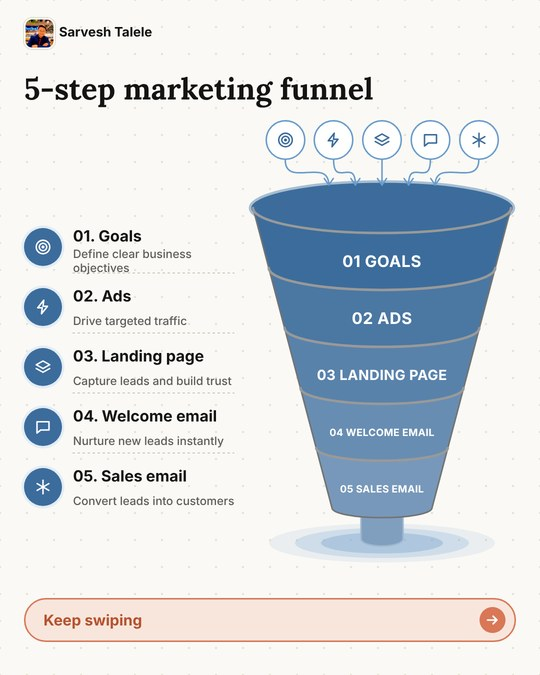
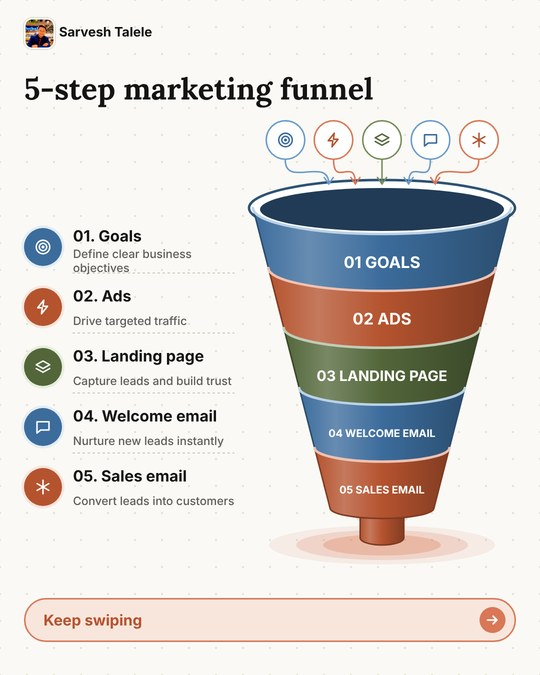
2.17.0: reel narration pacing and caps handling, infographic-first carousel flow (PDF+images), lit 3D ring funnel

Changed region(s): [[0.4444, 0.1556, 0.9481, 0.84], [0.0296, 0.4044, 0.1185, 0.5911], [0.0296, 0.6844, 0.1185, 0.7778]]

diff --git a/skills/explainer-studio/studio/index.html b/skills/explainer-studio/studio/index.html
@@ -73,7 +73,7 @@ dialog{border:0;border-radius:14px;padding:0;max-width:880px;width:calc(100% - 2
 </style></head><body>
 <nav class="rail" aria-label="Main"><div class="brand"><img src="/avatar" alt=""><div><b>Explainer Studio</b><small id="who"></small></div></div>
  <h6>Workspace</h6><a href="#/home" data-r="home"><svg viewBox="0 0 24 24"><path d="M3 11l9-7 9 7v9a1 1 0 0 1-1 1h-5v-6H9v6H4a1 1 0 0 1-1-1z"/></svg>Home</a><a href="#/library" data-r="library"><svg viewBox="0 0 24 24"><rect x="3" y="4" width="7" height="7" rx="1"/><rect x="14" y="4" width="7" height="7" rx="1"/><rect x="3" y="14" width="7" height="7" rx="1"/><rect x="14" y="14" width="7" height="7" rx="1"/></svg>Library</a>
- <h6>Create</h6><a href="#/create/carousel" data-r="create/carousel"><svg viewBox="0 0 24 24"><rect x="6" y="4" width="12" height="16" rx="2"/><path d="M3 8v8M21 8v8"/></svg>Carousel</a><a href="#/create/image" data-r="create/image"><svg viewBox="0 0 24 24"><rect x="3" y="4" width="18" height="16" rx="2"/><circle cx="9" cy="10" r="2"/><path d="M21 16l-5-5-8 8"/></svg>Infographic or cover</a><a href="#/create/gif" data-r="create/gif"><svg viewBox="0 0 24 24"><rect x="3" y="5" width="18" height="14" rx="2"/><path d="M8 10v4M12 10v4M16 10h-2v4"/></svg>GIF</a><a href="#/create/post" data-r="create/post"><svg viewBox="0 0 24 24"><path d="M4 5h16v11H9l-5 4z"/></svg>Post</a><a href="#/create/reel" data-r="create/reel"><svg viewBox="0 0 24 24"><rect x="7" y="2" width="10" height="20" rx="2"/><path d="M11 10l3 2-3 2z"/></svg>Reel</a>
+ <h6>Create</h6><a href="#/create/carousel" data-r="create/carousel"><svg viewBox="0 0 24 24"><rect x="6" y="4" width="12" height="16" rx="2"/><path d="M3 8v8M21 8v8"/></svg>Carousel</a><a href="#/create/image" data-r="create/image"><svg viewBox="0 0 24 24"><rect x="3" y="4" width="18" height="16" rx="2"/><circle cx="9" cy="10" r="2"/><path d="M21 16l-5-5-8 8"/></svg>Infographic</a><a href="#/create/gif" data-r="create/gif"><svg viewBox="0 0 24 24"><rect x="3" y="5" width="18" height="14" rx="2"/><path d="M8 10v4M12 10v4M16 10h-2v4"/></svg>GIF</a><a href="#/create/post" data-r="create/post"><svg viewBox="0 0 24 24"><path d="M4 5h16v11H9l-5 4z"/></svg>Post</a><a href="#/create/reel" data-r="create/reel"><svg viewBox="0 0 24 24"><rect x="7" y="2" width="10" height="20" rx="2"/><path d="M11 10l3 2-3 2z"/></svg>Reel</a>
  <div class="sp"></div><div class="foot">Runs on this computer only. Nothing is uploaded.</div></nav>
 <main id="view" tabindex="-1"></main>
 <dialog id="dlg"><div class="dlg" id="dlgBody"></div></dialog>
@@ -82,8 +82,8 @@ const TOKEN='__TOKEN__';const $=(s,p=document)=>p.querySelector(s);const $$=(s,p
 const el=(t,a={},...k)=>{const e=document.createElement(t);for(const[x,v]of Object.entries(a)){if(x==='class')e.className=v;else if(x==='text')e.textContent=v;else if(x.startsWith('on'))e.addEventListener(x.slice(2),v);else if(v!==false&&v!==null&&v!==undefined)e.setAttribute(x,v===true?'':v)}k.flat().forEach(c=>e.append(c&&c.nodeType?c:document.createTextNode(c??'')));return e};
 const api=async(p,b)=>{const r=await fetch(p+(p.includes('?')?'&':'?')+'t='+TOKEN,{method:b?'POST':'GET',headers:{'X-Token':TOKEN,'Content-Type':'application/json'},body:b?JSON.stringify(b):undefined});return r.json()};
 const u=p=>p+(p.includes('?')?'&':'?')+'t='+TOKEN;
-const TEMPLATES=['cover-bold','cover-stage','cover-editorial','cover-terminal'];
-const KIND={carousel:['Carousel','A cover, your infographics and a closing slide, as PDF, separate images or both.','#/create/carousel'],image:['Infographic or cover','One finished image, ready to post.','#/create/image'],gif:['GIF','A short looping explainer for LinkedIn.','#/create/gif'],post:['Post','Post text with its image and first comment.','#/create/post'],reel:['Reel','A cinematic vertical video with voice and captions.','#/create/reel']};
+const TEMPLATES=['info-ring','info-tower','info-loop','info-stat'];
+const KIND={carousel:['Carousel','A cover, your infographics and a closing slide, as PDF, separate images or both.','#/create/carousel'],image:['Infographic','One finished infographic image, ready to post.','#/create/image'],gif:['GIF','A short looping explainer for LinkedIn.','#/create/gif'],post:['Post','Post text with its image and first comment.','#/create/post'],reel:['Reel','A cinematic vertical video with voice and captions.','#/create/reel']};
 const ICON={carousel:'<rect x="6" y="4" width="12" height="16" rx="2"/><path d="M3 8v8M21 8v8"/>',image:'<rect x="3" y="4" width="18" height="16" rx="2"/><circle cx="9" cy="10" r="2"/><path d="M21 16l-5-5-8 8"/>',gif:'<rect x="3" y="5" width="18" height="14" rx="2"/><path d="M8 10v4M12 10v4M16 10h-2v4"/>',post:'<path d="M4 5h16v11H9l-5 4z"/>',reel:'<rect x="7" y="2" width="10" height="20" rx="2"/><path d="M11 10l3 2-3 2z"/>'};
 const svg=k=>{const s=document.createElementNS('http://www.w3.org/2000/svg','svg');s.setAttribute('viewBox','0 0 24 24');s.innerHTML=ICON[k]||'';return s};
 const ago=t=>{const d=Date.now()/1e3-t;return d<90?'just now':d<5400?Math.round(d/60)+' min ago':d<129600?Math.round(d/3600)+' h ago':new Date(t*1e3).toLocaleDateString()};
@@ -95,8 +95,8 @@ function route(){const h=(location.hash||'#/home').slice(2)||'home';$$('.rail a'
  if(h==='home')home(m);else if(h==='library')library(m);else if(h==='create/carousel')studio(m,'carousel');else if(h==='create/image')studio(m,'single');else if(/^create\/(gif|post|reel)$/.test(h))brief(m,h.split('/')[1]);else home(m);document.title=({home:'Home',library:'Library'}[h]||'Create')+' · Explainer Studio'}
 function status(k){const r=READY&&READY[k];if(!READY)return el('span',{class:'chip',text:'Checking…'});return el('span',{class:'chip '+(r&&r.ready?'ok':'warn'),text:r&&r.ready?'Ready on this computer':'Setup needed'})}
 function home(m){
- const tpl=TEMPLATES.map(id=>el('img',{src:u('/samples/'+id+'.jpg'),alt:byId(id).name+' carousel cover'}));
- m.append(el('section',{class:'hero'},el('div',{},el('h1',{text:'Turn an idea into something people stop for.'}),el('p',{class:'lede',text:'Pick a template, fill in your words and get a finished carousel, infographic, GIF, post or Reel. Everything is made on this computer with your branding.'}),el('div',{class:'bar'},el('a',{class:'btn pri',href:'#/create/carousel',text:'Create a carousel'}),el('a',{class:'btn ghost',href:'#/library',text:'Open the library'}))),el('div',{class:'fan',role:'img','aria-label':'The four carousel templates'},tpl)));
+ const tpl=TEMPLATES.map(id=>el('img',{src:u('/samples/'+id+'.jpg'),alt:byId(id).name+' infographic'}));
+ m.append(el('section',{class:'hero'},el('div',{},el('h1',{text:'Turn an idea into something people stop for.'}),el('p',{class:'lede',text:'Choose the infographics, fill in your words and get a finished carousel (PDF and images), infographic, GIF, post or Reel. Everything is made on this computer with your branding.'}),el('div',{class:'bar'},el('a',{class:'btn pri',href:'#/create/carousel',text:'Create a carousel'}),el('a',{class:'btn ghost',href:'#/library',text:'Open the library'}))),el('div',{class:'fan',role:'img','aria-label':'Sample infographics'},tpl)));
  m.append(el('div',{class:'sechead'},el('h2',{text:'Create'})));
  const t=el('div',{class:'tiles'});['carousel','image','gif','post','reel'].forEach(k=>{const a=el('a',{class:'tile',href:KIND[k][2]},svg(k),el('b',{text:KIND[k][0]}),el('span',{text:KIND[k][1]}));if(['carousel','gif','reel'].includes(k)){const st=el('div',{class:'st'});st.append(status(k==='image'?'carousel':k));a.append(st)}t.append(a)});m.append(t);
  const rec=el('div');m.append(el('div',{class:'sechead'},el('h2',{text:'Recently made'}),el('a',{href:'#/library',text:'See all'})),rec);
@@ -128,34 +128,32 @@ function brief(m,k){const names={gif:'GIF',post:'Post',reel:'Reel'},blurb={gif:'
  m.append(el('div',{class:'two'},form,side));const L=el('div');m.append(el('div',{class:'sechead',style:'margin-top:30px'},el('h2',{text:'Made before'})),L);
  api('/api/library').then(r=>{const l=r.items.filter(i=>i.kind===k);if(!l.length){L.append(el('div',{class:'empty',text:'No '+names[k]+'s yet.'}));return}const g=el('div',{class:'grid'});l.forEach(i=>g.append(card(i)));L.append(g)})}
 // ---- studio pages (carousel + single image) ----
-function studio(m,mode){const S={mode,group:'cover',picked:[],vals:{},closing:{title:'What will you try first?',lines:[]},theme:'paper'};
- const isC=mode==='carousel';m.append(el('h1',{text:isC?'Create a carousel':'Create an infographic or cover'}),el('p',{class:'lede',text:isC?'Choose a cover template, add the infographics you want inside, write your content and choose how it is delivered.':'Choose one design and write its content. You get a finished PNG.'}));
+function studio(m,mode){const S={mode,group:'infographic',picked:[],vals:{},closing:{title:'What will you try first?',lines:[]},theme:'paper',fmt:'both'};
+ const isC=mode==='carousel';m.append(el('h1',{text:isC?'Create a carousel':'Create an infographic'}),el('p',{class:'lede',text:isC?'Choose the infographic for each slide, write your content and get the carousel as a PDF and as separate images, in the Claude light theme with your branding.':'Choose one infographic and write its content. You get a finished PNG.'}));
  const steps=el('div',{class:'steps'});m.append(steps);const wrap=el('div',{class:'work'}),main=el('div'),aside=el('aside',{class:'card proof'});wrap.append(main,aside);m.append(wrap);
  aside.append(el('div',{class:'empty',style:'border:0;padding:20px 6px',text:'Choose a design to preview it here.'}));
  const s1=el('section',{class:'sec'}),s2=el('section',{class:'sec'}),s3=el('section',{class:'sec'}),s4=el('section',{class:'sec'});main.append(s1,s2,s3,s4);
  const show=d=>{aside.innerHTML='';aside.append(el('img',{class:'big',src:u('/samples/'+d.id+'.jpg'),alt:'Sample of '+d.name}),el('h3',{text:d.name}),el('p',{text:d.blurb}),el('div',{class:'fit',text:'Best for: '+d.best_for}))};
  const wall=(list,pick)=>{const w=el('div',{class:'wall'});list.forEach(d=>w.append(el('button',{class:'poster',type:'button','aria-pressed':S.picked.includes(d.id),onclick:()=>pick(d),onmouseenter:()=>show(d),onfocus:()=>show(d)},el('span',{class:'sheet'},el('img',{src:u('/samples/'+d.id+'.jpg'),alt:'Sample of '+d.name}),el('span',{class:'tick',text:'Selected'})),el('strong',{text:d.name}),el('small',{text:d.tag}))));return w};
- const covers=D.designs.filter(d=>d.group==='cover'),infos=D.designs.filter(d=>d.group==='infographic'),tpls=covers.filter(d=>TEMPLATES.includes(d.id));
- const seed=id=>{if(!S.vals[id])S.vals[id]=clone(byId(id).sample)};
+ const infos=D.designs.filter(d=>d.group==='infographic'),COVER='cover-bold';
+ const seed=id=>{if(!S.vals[id])S.vals[id]=clone(byId(id).sample)};if(isC){S.picked=[COVER];seed(COVER)}
  function draw(){
   const hasCover=S.picked.some(i=>byId(i).group==='cover');
-  steps.innerHTML='';(isC?['Template','Infographics','Content','Deliver']:['Design','Content','Generate']).forEach((n,i)=>{const on=isC?(i===0&&!hasCover)||(i===1&&hasCover&&S.picked.length<2)||(i>=2&&S.picked.length>1):(i===0&&!S.picked.length)||(i>=1&&S.picked.length);steps.append(el('div',{class:on?'on':'',text:(i+1)+'. '+n}))});
+  steps.innerHTML='';(isC?['Infographics','Content','Create']:['Infographic','Content','Create']).forEach((n,i)=>{const ni=S.picked.filter(x=>byId(x).group==='infographic').length,on=(i===0&&!ni)||(i>=1&&ni>0);steps.append(el('div',{class:on?'on':'',text:(i+1)+'. '+n}))});
   s1.innerHTML='';s2.innerHTML='';
-  if(isC){s1.append(el('h2',{text:'1. Pick a cover template'}),el('p',{text:'Four templates, all in the Claude light theme by default. Each one sets the cover layout.'}),wall(tpls,d=>{S.picked=S.picked.filter(x=>byId(x).group!=='cover');S.picked.unshift(d.id);seed(d.id);show(d);draw()}));
-   s2.append(el('h2',{text:'2. Add infographics (up to 5)'}),el('p',{text:'Choose the infographic type for each slide first. The carousel is created only after you have picked at least one.'}),wall(infos,d=>{const i=S.picked.indexOf(d.id);if(i>=0)S.picked.splice(i,1);else if(S.picked.filter(x=>byId(x).group==='infographic').length<5)S.picked.push(d.id);seed(d.id);show(d);draw()}))}
-  else{s1.append(el('h2',{text:'1. Pick a design'}));const tabs=el('div',{class:'seg',style:'margin-bottom:14px'});[['cover','Covers'],['infographic','Infographics']].forEach(([g,n])=>tabs.append(el('button',{type:'button','aria-pressed':S.group===g,text:n,onclick:()=>{S.group=g;draw()}})));s1.append(tabs,wall(D.designs.filter(d=>d.group===S.group),d=>{S.picked=S.picked.includes(d.id)?[]:[d.id];seed(d.id);show(d);draw()}))}
-  s3.innerHTML='';s4.innerHTML='';if(!S.picked.length)return;
-  s3.append(el('h2',{text:(isC?'3':'2')+'. Write your content'}),el('p',{text:'Each field is filled with the sample so you can see what it does. Replace it with your own words. Counters show the limit.'}));
-  if(isC){const dk=el('div',{class:'deck'});S.picked.forEach(id=>{const d=byId(id);dk.append(el('div',{class:'deckrow'},el('img',{src:u('/samples/'+id+'.jpg'),alt:''}),el('span',{text:(d.group==='cover'?'Cover: ':'Slide: ')+d.name}),el('button',{type:'button','aria-label':'Remove '+d.name,onclick:()=>{S.picked=S.picked.filter(x=>x!==id);draw()},text:'Remove'})))});dk.append(el('div',{class:'deckrow'},el('span',{text:'Closing slide with your follow button (added automatically)'})));s3.append(dk)}
+  if(isC){s1.append(el('h2',{text:'1. Choose the infographic for each slide (up to 5)'}),el('p',{text:'Each one becomes a slide between your cover and the closing slide. Pick the types that suit your content, in the order you want them.'}),wall(infos,d=>{const i=S.picked.indexOf(d.id);if(i>=0)S.picked.splice(i,1);else if(S.picked.filter(x=>byId(x).group==='infographic').length<5)S.picked.push(d.id);seed(d.id);show(d);draw()}))}
+  else{s1.append(el('h2',{text:'1. Choose an infographic'}),wall(infos,d=>{S.picked=S.picked.includes(d.id)?[]:[d.id];seed(d.id);show(d);draw()}))}
+  s3.innerHTML='';s4.innerHTML='';if(!S.picked.some(x=>byId(x).group==='infographic'))return;
+  s3.append(el('h2',{text:'2. Write your content'}),el('p',{text:'Each field is filled with the sample so you can see what it does. Replace it with your own words. Counters show the limit.'}));
+  if(isC){const dk=el('div',{class:'deck'});S.picked.forEach(id=>{const d=byId(id);dk.append(el('div',{class:'deckrow'},el('img',{src:u('/samples/'+id+'.jpg'),alt:''}),el('span',{text:(d.group==='cover'?'Cover (made from your headline)':'Slide: '+d.name)}),d.group==='cover'?'':el('button',{type:'button','aria-label':'Remove '+d.name,onclick:()=>{S.picked=S.picked.filter(x=>x!==id);draw()},text:'Remove'})))});dk.append(el('div',{class:'deckrow'},el('span',{text:'Closing slide with your follow button (added automatically)'})));s3.append(dk)}
   S.picked.forEach(id=>{const d=byId(id),box=el('div',{class:'form'},el('h3',{text:d.name}),el('p',{class:'sub',text:d.tag}));d.fields.forEach(sp=>box.append(field(sp,S.vals[id],upd)));box.append(el('button',{type:'button',class:'btn ghost sm',onclick:()=>{S.vals[id]=clone(d.sample);draw()},text:'Reset to the sample'}));s3.append(box)});
   if(isC){const box=el('div',{class:'form'},el('h3',{text:'Closing slide'}),el('p',{class:'sub',text:'The last slide, with your follow button underneath.'}));box.append(field({key:'title',type:'text',label:'Question or call to action',min:6,max:60},S.closing,upd));
    const ls=el('div',{class:'listbox'});[0,1,2].forEach(i=>{const inp=el('input',{type:'text',maxlength:38,'aria-label':'Optional line '+(i+1),placeholder:'Optional line '+(i+1),value:S.closing.lines[i]||'',oninput:()=>{S.closing.lines[i]=inp.value}});ls.append(inp)});box.append(el('div',{class:'fld'},el('label',{},'Optional lines (what to do next)'),ls));s3.append(box)}
-  s4.append(el('h2',{text:(isC?'4. Deliver':'3. Generate')}));
-  if(isC)s4.append(el('fieldset',{},el('legend',{text:'How do you want the carousel delivered?'}),el('div',{class:'radios'},[['pdf','PDF'],['images','Separate images'],['both','Both']].map(([v,t])=>el('label',{},el('input',{type:'radio',name:'f',value:v,checked:S.fmt===v,onchange:()=>{S.fmt=v;upd()}}),t)))));
+  s4.append(el('h2',{text:'3. Create'}));if(isC)s4.append(el('p',{text:'You get the PDF and every slide as a separate image, plus the first comment text.'}));
   const th=el('select',{id:'theme','aria-label':'Colour theme',style:'max-width:260px',onchange:()=>S.theme=th.value});D.themes.forEach(([v,t])=>th.append(el('option',{value:v,text:t,selected:v===S.theme})));
   s4.append(el('div',{class:'fld'},el('label',{for:'theme'},'Colour theme'),th));
-  const go=el('button',{class:'btn pri',type:'button',id:'go',disabled:true,text:'Generate'}),st=el('div'),res=el('div',{class:'results'});s4.append(go,st,res);go.onclick=()=>run(go,st,res);upd()}
- function upd(){const go=$('#go');if(go)go.disabled=!(S.picked.length&&(!isC||(S.picked.some(i=>byId(i).group==='cover')&&S.picked.some(i=>byId(i).group==='infographic')&&S.fmt)))}
+  const go=el('button',{class:'btn pri',type:'button',id:'go',disabled:true,text:isC?'Create carousel (PDF and images)':'Create image'}),st=el('div'),res=el('div',{class:'results'});s4.append(go,st,res);go.onclick=()=>run(go,st,res);upd()}
+ function upd(){const go=$('#go');if(go)go.disabled=!(S.picked.length&&(!isC||S.picked.some(i=>byId(i).group==='infographic')))}
  async function run(go,st,res){res.innerHTML='';go.disabled=true;st.innerHTML='';st.append(el('div',{class:'msg busy',role:'status',text:'Building with the real engine. This takes up to a minute.'}));
   const items=S.picked.map(id=>({design:id,values:S.vals[id]}));const r=await api('/api/generate',{mode:S.mode,format:isC?S.fmt:'images',theme:S.theme,items,closing:isC?{title:S.closing.title,lines:S.closing.lines.filter(Boolean)}:null});
   st.innerHTML='';if(r.error){st.append(el('div',{class:'msg err',role:'alert',text:r.error}));upd();return}

diff --git a/skills/explainer-studio/engine/carousel.js b/skills/explainer-studio/engine/carousel.js
@@ -298,27 +298,33 @@ const TYPES = {
     const lw = Math.min(XW, Math.round((s.short || '').length * 14.4 + 120)), link = box(root, { x: X0, y: yy, w: lw, h: 46, r: 23, fill: C.sand, bd: C.line, bw: 2, shadow: false });
     E(link, 'abs', 'left:14px;top:10px', icon('globe', 24, C.clayD, 2)); tx(link, 'sh-l', s.short || '', { x: 52, y: 4, w: lw - 64, h: 36, size: 24, weight: 500, font: MONO });
   },
-  // 3D ring funnel (reference: "5-step marketing funnel"): icons arrow into a stack of blue rings that narrow to a glowing spout; numbered list on the left
+  // 3D ring funnel in the Claude palette: each ring is a lit cylinder (light edge, dark side), icons feed it from above, numbered list on the left
   ring(root, s) {
     const st = s.steps, n = st.length, y0 = heading(root, 'rg-h', s.title) + 18, svg = svgLayer(root, W, H);
-    const cx = 764, rx0 = 258, rx1 = 100, ry0 = 50, iR = 40, iy = y0 + iR + 4, rimY = iy + iR + 96, th = Math.min(n <= 3 ? 150 : n === 4 ? 136 : 124, Math.floor((BODY1 - 150 - rimY) / n));
-    const r = d => rx0 + (rx1 - rx0) * d / n, ryOf = rr => ry0 * rr / rx0, col = k => mix(C.blueD, .30 * k / Math.max(1, n - 1)), ell = (x, y, a, b) => `M${x - a} ${y} a${a} ${b} 0 1 0 ${2 * a} 0 a${a} ${b} 0 1 0 ${-2 * a} 0`;
-    const pad = k => String(k + 1).padStart(2, '0'), bot = rimY + n * th;
-    for (let g = 3; g >= 1; g--) path(svg, ell(cx, bot + 70, 70 + g * 52, 12 + g * 9), { stroke: 'none', fill: C.blue, w: 0 }).setAttribute('opacity', String(.11 * (4 - g)));
-    path(svg, `M${cx - r(n) * .42} ${bot} L${cx - r(n) * .42} ${bot + 62} A${r(n) * .42} 14 0 0 0 ${cx + r(n) * .42} ${bot + 62} L${cx + r(n) * .42} ${bot} Z`, { stroke: mix(C.blueD, .5), w: 3, fill: mix(C.blueD, .35) });
-    path(svg, ell(cx, rimY, rx0 + 6, ry0 + 3), { stroke: mix(C.blueD, .55), w: 5, fill: C.blueD }); path(svg, ell(cx, rimY + 2, rx0 - 20, ry0 - 12), { stroke: 'none', fill: mix(C.blueD, -0) }).setAttribute('opacity', '.55');
+    const cx = 764, rx0 = 258, rx1 = 104, ry0 = 52, iR = 40, iy = y0 + iR + 4, rimY = iy + iR + 96, th = Math.min(n <= 3 ? 150 : n === 4 ? 136 : 124, Math.floor((BODY1 - 150 - rimY) / n));
+    const r = d => rx0 + (rx1 - rx0) * d / n, ryOf = rr => ry0 * rr / rx0, ell = (x, y, a, b) => `M${x - a} ${y} a${a} ${b} 0 1 0 ${2 * a} 0 a${a} ${b} 0 1 0 ${-2 * a} 0`;
+    const shade = (hex, f) => { const v = parseInt(hex.slice(1), 16); const c = i => Math.max(0, Math.min(255, Math.round(((v >> i) & 255) * f))); return `rgb(${c(16)},${c(8)},${c(0)})`; };
+    const defs = document.createElementNS(svgNS, 'defs'); svg.appendChild(defs);
+    const grad = (id, hex) => { const g = document.createElementNS(svgNS, 'linearGradient'); g.setAttribute('id', id); g.setAttribute('x1', '0'); g.setAttribute('x2', '1'); g.setAttribute('y1', '0'); g.setAttribute('y2', '0');
+      [[0, shade(hex, 1.0)], [.22, mix(hex, .22)], [.5, hex], [1, shade(hex, .72)]].forEach(([o, c]) => { const t = document.createElementNS(svgNS, 'stop'); t.setAttribute('offset', o); t.setAttribute('stop-color', c); g.appendChild(t); }); defs.appendChild(g); return `url(#${id})`; };
+    const pad = k => String(k + 1).padStart(2, '0'), bot = rimY + n * th, base = k => grp(k).ink;
+    for (let g = 3; g >= 1; g--) path(svg, ell(cx, bot + 74, 64 + g * 54, 12 + g * 9), { stroke: 'none', fill: C.clay, w: 0 }).setAttribute('opacity', String(.10 * (4 - g)));
+    path(svg, ell(cx, bot + 20, r(n) * .5, 12), { stroke: 'none', fill: '#000' }).setAttribute('opacity', '.10');
+    path(svg, `M${cx - r(n) * .42} ${bot} L${cx - r(n) * .42} ${bot + 60} A${r(n) * .42} 14 0 0 0 ${cx + r(n) * .42} ${bot + 60} L${cx + r(n) * .42} ${bot} Z`, { stroke: shade(base(n - 1), .7), w: 3, fill: grad('rg-sp', base(n - 1)) });
+    path(svg, ell(cx, rimY, rx0 + 8, ry0 + 4), { stroke: shade(base(0), .75), w: 5, fill: C.card }); path(svg, ell(cx, rimY + 3, rx0 - 14, ry0 - 9), { stroke: 'none', fill: shade(base(0), .55) });
     for (let k = 0; k < n; k++) {
-      const yt = rimY + k * th, yb = yt + th, rt = r(k), rb = r(k + 1), at = ryOf(rt), ab = ryOf(rb);
-      path(svg, `M${cx - rt} ${yt} A${rt} ${at} 0 0 0 ${cx + rt} ${yt} L${cx + rb} ${yb} A${rb} ${ab} 0 0 1 ${cx - rb} ${yb} Z`, { stroke: mix(col(k), .45), w: 3, fill: col(k) });
-      path(svg, `M${cx - rt} ${yt} A${rt} ${at} 0 0 0 ${cx + rt} ${yt}`, { stroke: mix(col(k), .6), w: 5 });
+      const yt = rimY + k * th, yb = yt + th, rt = r(k), rb = r(k + 1), at = ryOf(rt), ab = ryOf(rb), f = grad('rg-g' + k, base(k));
+      path(svg, `M${cx - rt} ${yt} A${rt} ${at} 0 0 0 ${cx + rt} ${yt} L${cx + rb} ${yb} A${rb} ${ab} 0 0 1 ${cx - rb} ${yb} Z`, { stroke: shade(base(k), .7), w: 3, fill: f });
+      path(svg, `M${cx - rt} ${yt} A${rt} ${at} 0 0 0 ${cx + rt} ${yt}`, { stroke: mix(grp(k).bd, .55), w: 5 });
       const rm = (rt + rb) / 2, yc = ((yt + at) + (yb + ab)) / 2, lab = `${pad(k)}  ${st[k].title.toUpperCase()}`, tw = rm * 1.45, z = fitSize(lab, { w: tw, h: 44, max: 32, min: 18, weight: 700, lh: 1.1 });
-      tx(root, `rg-t${k}`, lab, { x: cx - tw / 2, y: yc - 24, w: tw, h: 48, size: z, weight: 700, color: '#fff', align: 'center', ls: .02 });
+      tx(root, `rg-t${k}`, lab, { x: cx - tw / 2, y: yc - 24, w: tw, h: 48, size: z, weight: 700, color: '#fff', align: 'center' });
     }
     const gap = Math.min(112, (rx0 * 1.5) / Math.max(1, n - 1));
-    st.forEach((a, k) => { const xi = cx + (k - (n - 1) / 2) * gap, tx_ = cx + (xi - cx) * .55, ty = rimY - ry0 + 4;
-      path(svg, `M${xi} ${iy + iR} C${xi} ${iy + iR + 56} ${tx_} ${ty - 56} ${tx_} ${ty}`, { stroke: C.blue, w: 3 }); path(svg, `M${tx_ - 9} ${ty - 13} L${tx_} ${ty} L${tx_ + 9} ${ty - 13}`, { stroke: C.blue, w: 3 });
-      const b = box(root, { x: xi - iR, y: iy - iR, w: iR * 2, h: iR * 2, r: iR, bd: C.blue, bw: 3, shadow: false }); E(b, 'abs', `left:${iR - 21}px;top:${iR - 21}px`, icon(a.icon || 'star', 36, C.blueD, 2)); });
-    st.forEach((a, k) => { const yc = rimY + (k + .5) * th + 18, c = E(root, 'abs', `left:${X0}px;top:${yc - 38}px;width:76px;height:76px;border-radius:50%;background:${C.blueD};display:flex;align-items:center;justify-content:center;box-shadow:0 0 0 5px ${C.blueSoft}`, icon(a.icon || 'star', 36, '#fff', 2));
+    st.forEach((a, k) => { const P = grp(k), xi = cx + (k - (n - 1) / 2) * gap, tx_ = cx + (xi - cx) * .55, ty = rimY - ry0 + 4;
+      path(svg, `M${xi} ${iy + iR} C${xi} ${iy + iR + 56} ${tx_} ${ty - 56} ${tx_} ${ty}`, { stroke: P.bd, w: 3 }); path(svg, `M${tx_ - 9} ${ty - 13} L${tx_} ${ty} L${tx_ + 9} ${ty - 13}`, { stroke: P.bd, w: 3 });
+      const b = box(root, { x: xi - iR, y: iy - iR, w: iR * 2, h: iR * 2, r: iR, bd: P.bd, bw: 3, shadow: false }); E(b, 'abs', `left:${iR - 21}px;top:${iR - 21}px`, icon(a.icon || 'star', 36, P.ink, 2)); });
+    st.forEach((a, k) => { const P = grp(k), yc = rimY + (k + .5) * th + 18;
+      E(root, 'abs', `left:${X0}px;top:${yc - 38}px;width:76px;height:76px;border-radius:50%;background:${P.ink};display:flex;align-items:center;justify-content:center;box-shadow:0 0 0 5px ${P.soft}`, icon(a.icon || 'star', 36, '#fff', 2));
       tx(root, `rg-l${k}`, `${pad(k)}. ${a.title}`, { x: X0 + 98, y: yc - 42, w: 330, h: 40, size: 31, weight: 700, color: C.ink });
       if (a.sub) tx(root, `rg-s${k}`, a.sub, { x: X0 + 98, y: yc - 2, w: 330, h: 62, size: 23, weight: 500, color: C.mid, wrap: true, lh: 1.2 });
       if (k < n - 1) path(svg, `M${X0 + 98} ${yc + th / 2 - 8} L${X0 + 420} ${yc + th / 2 - 8}`, { stroke: C.lineD, w: 2, dash: '3 7' }); });

diff --git a/skills/explainer-studio/scripts/studio.py b/skills/explainer-studio/scripts/studio.py
@@ -177,7 +177,7 @@ def has_claude(work):
     return bool(re.search(r'\bclaude\b', open(os.path.join(work, 'source_full.txt'), encoding='utf-8').read(), re.I))
 def build_reel(work, story, lib, env, out, slug):
     b = brand(); t0 = time.time(); print('[reel] voice...'); spoken, dur, wavs = tts(story, work, lib, env)
-    tails, end_hold = {}, 4.4
+    tails, end_hold = {}, 3.2
     for it in range(5):
         D = TL.build(story, dur, tails, end_hold); D['brand'] = brand_for_film(b); D['logo'] = has_claude(work); D['look'] = 'light' if (story.get('reel') or {}).get('look') == 'light' else 'cinematic'
         film = stage(work, '.film-reel', D); bad, txt, rc = readcheck(lib, env, film, '1080x1920')
@@ -323,9 +323,7 @@ def build(a):
     ff_ = os.path.join(work, '.carousel_format')
     if getattr(a, 'format', None): open(ff_, 'w', encoding='utf-8').write(a.format)
     elif os.path.isfile(ff_): a.format = open(ff_, encoding='utf-8').read().strip()      # a rebuild after edit/cta reuses what the person chose
-    if 'carousel' in arts and getattr(a, 'format', None) is None:
-        print('ASK THE USER FIRST: do you want the carousel as a PDF (one LinkedIn document upload), as separate PNG images (one per slide), or both?\n'
-              'Nothing was built. After they answer, re-run with --format pdf | images | both.'); return 3
+    if 'carousel' in arts and getattr(a, 'format', None) is None: a.format = 'both'      # the person always gets the PDF and the separate images
     slug = story['meta']['slug']; out = os.path.join(work, 'out'); res = {}
     if not story['meta'].get('url'): story['meta']['url'] = load(os.path.join(work, 'source.meta.json')).get('url', '')
     if 'post' in arts:
@@ -462,8 +460,8 @@ def set_brand(a):
         else: cur['post_cta'] = [x.strip() for x in a.cta]
     if a.voice: cur['voice'] = a.voice.strip()
     if a.speed is not None:
-        if 0.8 <= a.speed <= 1.2: cur['speed'] = a.speed
-        else: errs.append('--speed: use 0.8-1.2')
+        if 0.8 <= a.speed <= 1.3: cur['speed'] = a.speed
+        else: errs.append('--speed: use 0.8-1.3')
     if a.avatar:
         ext = os.path.splitext(a.avatar)[1].lower()
         if not os.path.isfile(a.avatar) or ext not in ('.png', '.jpg', '.jpeg', '.webp'): errs.append('--avatar: give an existing .png, .jpg or .webp file')
@@ -586,7 +584,7 @@ def plan_cmd(a):
     if re.search(r'`[^`]+`|\$ \w+|\bnpm |\bpip |\bgit \w+', src): sig.append(('terminal', 'commands in the text', 'a command transcript'))
     if re.search(r'https?://', src): sig.append(('shot', 'links in the text', 'a framed page card per recommended link'))
     if not sig: sig.append(('points / big', 'no numbers, steps or contrasts found', 'icon points for the list, one big quote for the key line'))
-    L = ['# Plan (approve before building)', '', '## Ask the person first', '0. Output format: PDF (one LinkedIn document upload), separate PNG images (one per slide), or both? Do not build until they answer.', '1. Who is this for, and what should they do after the last slide (save, comment, click, follow)?', '2. Which hook style: contrarian reframe, specific reader, "read this before...", number proof, or POV?', '3. Tone: calm explainer, punchy, or technical?', '4. Any slide that must be there, or a claim that must not be made?', '', '## What the source supports', '']
+    L = ['# Plan (approve before building)', '', '## Ask the person first', '0. Which infographic type should each content slide use (ring funnel, tower funnel, stat, bars, compare, flow, loop, stack, terminal, points)? Output is always the PDF and the separate PNG images.', '1. Who is this for, and what should they do after the last slide (save, comment, click, follow)?', '2. Which hook style: contrarian reframe, specific reader, "read this before...", number proof, or POV?', '3. Tone: calm explainer, punchy, or technical?', '4. Any slide that must be there, or a claim that must not be made?', '', '## What the source supports', '']
     L += [f'- **{t}**: {why}. Idea: {idea}.' for t, why, idea in sig]
     L += ['', 'Design choice: see docs/DESIGN_MATRIX.md (conveyor for gates, funnel for narrowing shares, tower for layers, skyline for rankings, poster slide for a bold claim).']
     L += ['', '## Proposed slides (5-7)', '', '1. Cover: short hook, <= 60 characters', *[f'{i}. {t.split(" / ")[0]} slide from the source' for i, (t, _, _) in enumerate(sig[:4], 2)], f'{min(len(sig), 4) + 2}. Closing: question + follow CTA', '', 'Rule: every number or claim on a slide must come from the source. Approve or change this plan, then write story.json.']

diff --git a/skills/explainer-studio/scripts/validate_story.py b/skills/explainer-studio/scripts/validate_story.py
@@ -8,7 +8,7 @@ NEED_CITE = {'stakes', 'answer', 'how', 'proof'}
 S = lambda lo, hi: ('str', lo, hi)
 ITEM = lambda **kw: ('obj', kw)
 SPEC = {
-  'narration': {'lines': [7, 15], 'words_per_line': [6, 30], 'max_sentence_words': 22, 'total_words': [90, 170], 'reel_seconds': [40, 90], 'engage': 'LAST beat: ask the viewer a question or give a 1-step challenge (needs ? or starts with a verb like Try/Check/Pick); no cite needed', 'direct_address': 'at least 3 beats use you/your'},
+  'narration': {'lines': [6, 12], 'words_per_line': [5, 24], 'max_sentence_words': 18, 'total_words': [60, 130], 'reel_seconds': [22, 55], 'engage': 'LAST beat: ask the viewer a question or give a 1-step challenge (needs ? or starts with a verb like Try/Check/Pick); no cite needed', 'direct_address': 'at least 3 beats use you/your'},
   'reel_scenes': {
     'hook':   {'q': S(10, 130), 'sub': S(0, 110), 'chips': ('list', 0, 4, S(2, 24))},
     'flow':   {'title': S(0, 48), 'steps': ('list', 2, 4, ITEM(label=S(2, 22), sub=S(0, 34), icon='icon')), 'loop': 'bool'},
@@ -138,7 +138,7 @@ def validate(story, chunks, full_text):
         if beats[0].get('role') != 'hook' or not beats[0].get('say', '').strip().endswith('?'): v.e('beats[0]: must be role "hook" and a question ending with "?"')
         if not any(b.get('role') == 'takeaway' for b in beats): v.e('need a beat with role "takeaway" before the engage beat')
         if not any(b.get('role') == 'answer' for b in beats): v.e('need a beat with role "answer"')
-    if beats and not N['total_words'][0] <= tw <= N['total_words'][1]: v.e(f'narration total {tw} words, allowed {N["total_words"][0]}-{N["total_words"][1]} (≈ {tw/1.9:.0f}s with the male voice; the Reel must stay <= 90 s)')
+    if beats and not N['total_words'][0] <= tw <= N['total_words'][1]: v.e(f'narration total {tw} words, allowed {N["total_words"][0]}-{N["total_words"][1]} (≈ {tw/2.5:.0f}s at the default pace; keep the Reel under about 50 s or viewers leave: cut words, one idea per line)')
     # ── scenes ──
     seen = []; types = SPEC['reel_scenes']
     for i, sc in enumerate(scenes):

diff --git a/skills/explainer-studio/scripts/timeline.py b/skills/explainer-studio/scripts/timeline.py
@@ -1,7 +1,7 @@
 """timeline: story + TTS durations -> data.json for the engine (scene windows, per-part appear times, caption chunks). Deterministic."""
 import re
 from common import *
-LEAD, GAP, SCENE_GAP, FIRST_PAD = 0.6, 0.4, 0.45, 0.3
+LEAD, GAP, SCENE_GAP, FIRST_PAD = 0.35, 0.25, 0.3, 0.2
 def parts(sc):
     t, p = sc['type'], sc.get('p', {})
     return {'hook': 1 + bool(p.get('sub')) + len(p.get('chips', [])), 'flow': len(p.get('steps', [])) + bool(p.get('loop')), 'map': 1 + len(p.get('items', [])),
@@ -10,12 +10,12 @@ def items_of(sc):
     p = sc.get('p', {}); t = sc['type']
     return {"hook": [None] * parts(sc), "flow": p.get("steps", []) + ([None] if p.get("loop") else []), "map": [None] + p.get("items", []),
             'cards': p.get('items', []), 'list': p.get('items', []), 'chips': p.get('items', []), 'dialog': p.get('turns', []), 'big': [None] * parts(sc)}[t]
-def build(story, dur, tails=None, end_hold=4.4, last_tail=2.4):
+def build(story, dur, tails=None, end_hold=3.2, last_tail=1.5):
     tails = tails or {}; beats = {b['id']: b for b in story['beats']}; order = [b['id'] for b in story['beats']]
     start, end = {}, {}; t = LEAD; scs = story['scenes']
     for i, sc in enumerate(scs):
         for bid in sc['beats']: start[bid] = t; end[bid] = t + dur[bid]; t = end[bid] + GAP
-        tail = tails.get(sc['id'], 0.9) if i < len(scs) - 1 else last_tail + tails.get(sc['id'], 0)
+        tail = tails.get(sc['id'], 0.55) if i < len(scs) - 1 else last_tail + tails.get(sc['id'], 0)
         t = end[sc['beats'][-1]] + tail + SCENE_GAP
     last_end = end[order[-1]]
     end_t0 = last_end + last_tail + tails.get(scs[-1]['id'], 0)

diff --git a/skills/explainer-studio/scripts/tts_norm.py b/skills/explainer-studio/scripts/tts_norm.py
@@ -33,12 +33,17 @@ def norm(text, override=None):
     for k in sorted(p['exact'], key=len, reverse=True): s = s.replace(k, p['exact'][k])
     s = re.sub(r'\b([A-Za-z][\w-]*)\.([a-z]{1,5})\b(?!\s*[A-Z])', lambda m: f"{m.group(1)} dot {p['ext'][m.group(2)]}" if m.group(2) in p['ext'] else m.group(0), s)
     s = re.sub(r'(?<=[A-Z])/(?=[A-Z])', ' ', s)
+    sp = set(p.get('spell', []))
     def caps(m):
         w = m.group(0)
         if w in p['word_forms']: return p['word_forms'][w]
         if w in p['as_word']: return w
+        base = w[:-1] if w.endswith('s') and w[:-1] in sp else w
+        if base in sp: return spell(base) + ('s' if base != w else '')
+        if len(w) >= 4 or re.search(r'[AEIOU]', w) and len(w) >= 3: return w.lower()   # shouted words and code names (SKILL, ONLY, NEVER) are read as words, never letter by letter
         return spell(w)
-    s = re.sub(r'\b[A-Z]{2,6}s?\b', lambda m: caps(m) if not m.group(0).endswith('s') or m.group(0) in p['word_forms'] else spell(m.group(0)[:-1]) + 's', s)
+    s = re.sub(r'\b[A-Z]{2,6}s?\b', caps, s)
+    s = re.sub(r'[`*#]+', '', s); s = re.sub(r'(?<=[A-Za-z])_(?=[A-Za-z])', ' ', s)     # code ticks and snake_case never reach the voice
     s = numbers(s); s = pauses(s)
     s = re.sub(r'\s+', ' ', s).strip()
     return s

diff --git a/skills/explainer-studio/SKILL.md b/skills/explainer-studio/SKILL.md
@@ -37,7 +37,7 @@ Resource carousel (user sends N links, e.g. 5 repos): `studio.py resources W URL
 Before building a carousel: run `studio.py plan W`, ask the person its 4 questions (audience and next action, hook style, tone, must-have or must-avoid), show the slide plan and wait for approval. Choose infographics from the content: figures -> `stat`/`bars`/`ring`/`tower` (the funnels; `ring` for 3-5 process steps, `tower` for 3-4 stages with figures), steps -> `flow`, commands -> `terminal`, cycles -> `loop`, layers -> `stack`, contrasts -> `compare`. Build, then `studio.py e2e W` must pass (it catches underfilled, oversized, low-contrast, small-text and soft-image problems) before review.
 **Prefer the person's own choice:** `studio.py studio` starts the Design Studio web app in the background and prints `APP_URL=...` (docs/STUDIO.md): Home, Library of everything made on this computer, and a page per artifact. Run it once, give the person the link and carry on; never run it in the foreground and never wait on it. `studio.py studio --status` shows the link again, `--stop` ends it. Reel and GIF builds always use `--background` and `jobstatus`.
 
-**Before building a carousel, ask the user which infographic type each slide should use (ring funnel `ring`, cut-away tower funnel `tower`, `stat`, `bars`, `compare`, `flow`, `loop`, `stack`, ...) and wait; build only after they choose. Then ask whether they want a PDF, separate PNG images, or both, and wait for the answer. `build` refuses to run without `--format pdf|images|both`.**
+**Carousel workflow (same as GIF, Reel and post):** read the source, then ask the person which infographic type each slide should use (`ring` 3D funnel, `tower` cut-away funnel, `stat`, `bars`, `compare`, `flow`, `loop`, `stack`, `terminal`, `points`, ...) and wait; every content slide gets one creative infographic that fits its content. Build in the Claude light theme (`theme: "paper"`) with their branding. Always deliver both: `build --artifacts carousel` makes the PDF and every slide as a PNG, plus the first-comment text. Do not ask PDF or images.
 
 **Hooks:** run `studio.py hooks W` (or a topic) to get the viral hook patterns that fit the concept (`--kind line` for a post, Reel or GIF opening line). Pick the best fit, fill every [placeholder] with the real topic and real numbers, keep a carousel hook <= 60 characters, never invent results. Patterns, not guaranteed results.
 

diff --git a/CHANGELOG.md b/CHANGELOG.md
@@ -1,5 +1,11 @@
 # Changelog
 
+## 2.17.0
+
+- **Reel narration**: capitalised words in code or text (SKILL, NEVER) are spoken as words instead of letter by letter; only known initialisms (API, CLI, ...) are spelled. Faster voice (1.12), tighter pauses, narration capped at about 130 words so reels stay short.
+- **Carousel workflow**: you choose an infographic for each slide; the cover is made from your headline (no template step). The PDF and separate PNG images are always both delivered.
+- **3D ring funnel** redrawn as lit cylinders in the Claude light palette.
+
 ## 2.16.0
 
 - **Two new funnel infographics** built from the reference designs: **3D Ring Funnel** (`ring`: icons feed a stack of blue rings that narrow to a glowing spout, with a numbered list) and **Cut-away Tower Funnel** (`tower`: floors are stages, with banners, a note and a figure on the right and altitude notes on the left). They replace the flat bar funnel in the studio.

diff --git a/README.md b/README.md
@@ -10,7 +10,7 @@ Add a narrated Reel or a LinkedIn post only when you want them.
 [Quick start](#quick-start) · [Diagrams](#the-six-diagrams) · [Customise the CTA and hook](docs/CUSTOMIZE.md) · [How it works](#how-it-works) · [Docs](#documentation) · [Contributing](CONTRIBUTING.md)
 
 [![CI](https://github.com/sarveshtalele/content-creation/actions/workflows/ci.yml/badge.svg)](https://github.com/sarveshtalele/content-creation/actions/workflows/ci.yml)
-[![Version](https://img.shields.io/badge/version-2.16.0-D97757)](CHANGELOG.md)
+[![Version](https://img.shields.io/badge/version-2.17.0-D97757)](CHANGELOG.md)
 [![License: MIT](https://img.shields.io/badge/license-MIT-green)](LICENSE)
 ![Platforms](https://img.shields.io/badge/platforms-macOS%20%7C%20Windows%20%7C%20Linux-lightgrey)
 ![Python](https://img.shields.io/badge/python-3.11%20%7C%203.12%20%7C%203.13-3776AB?logo=python&logoColor=white)
